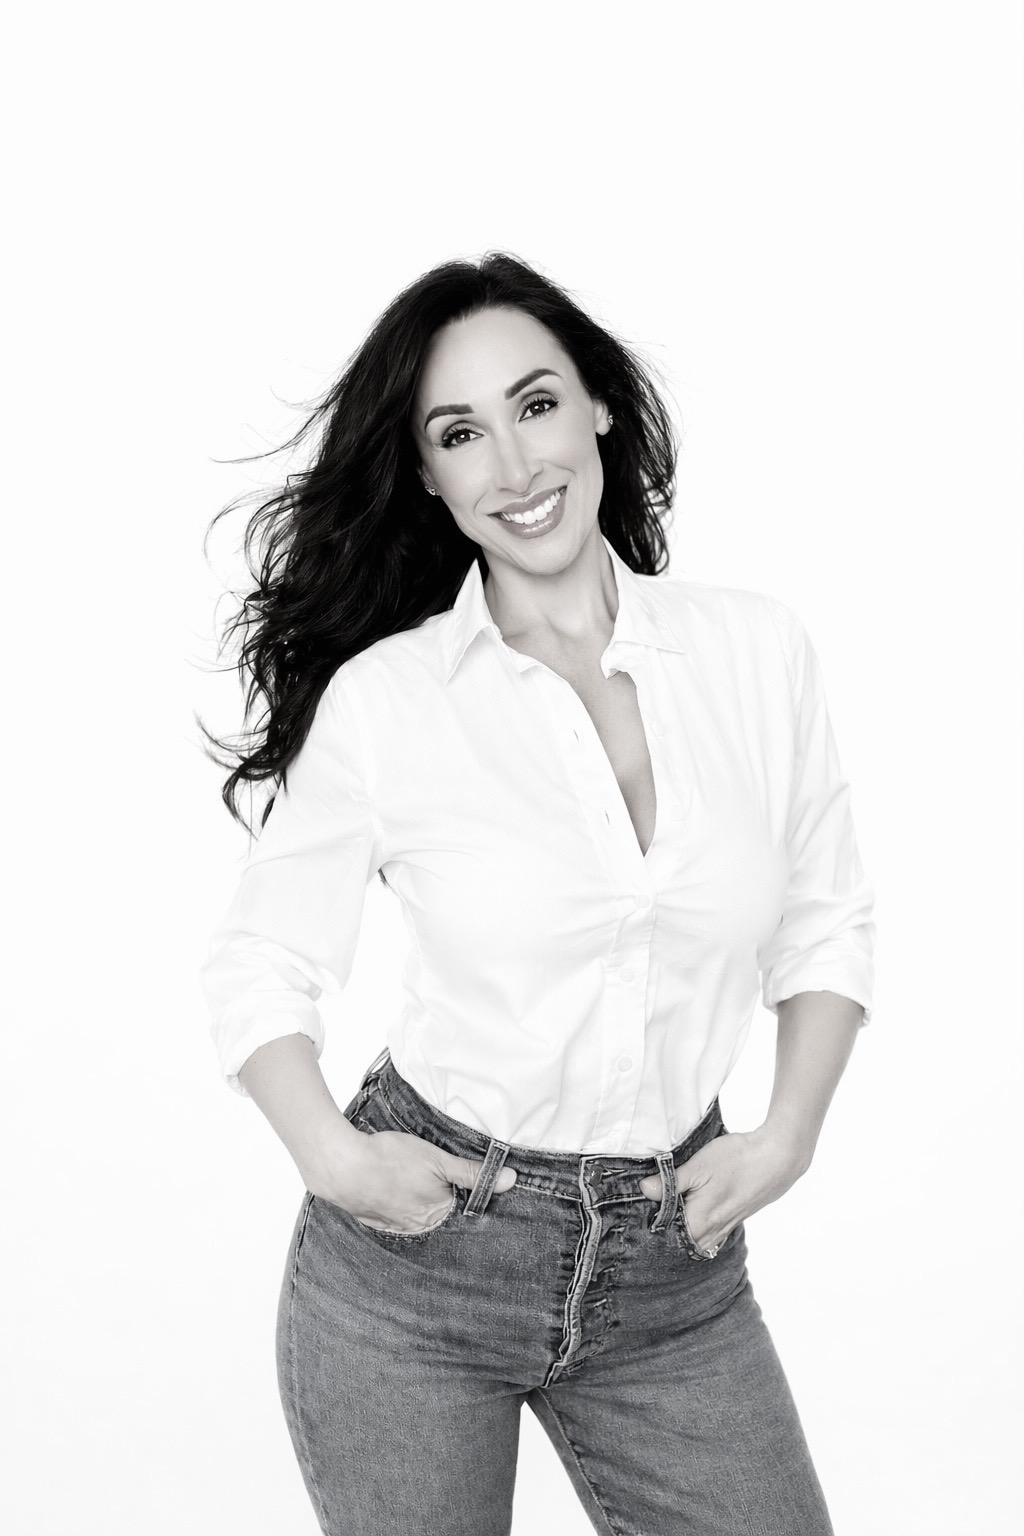
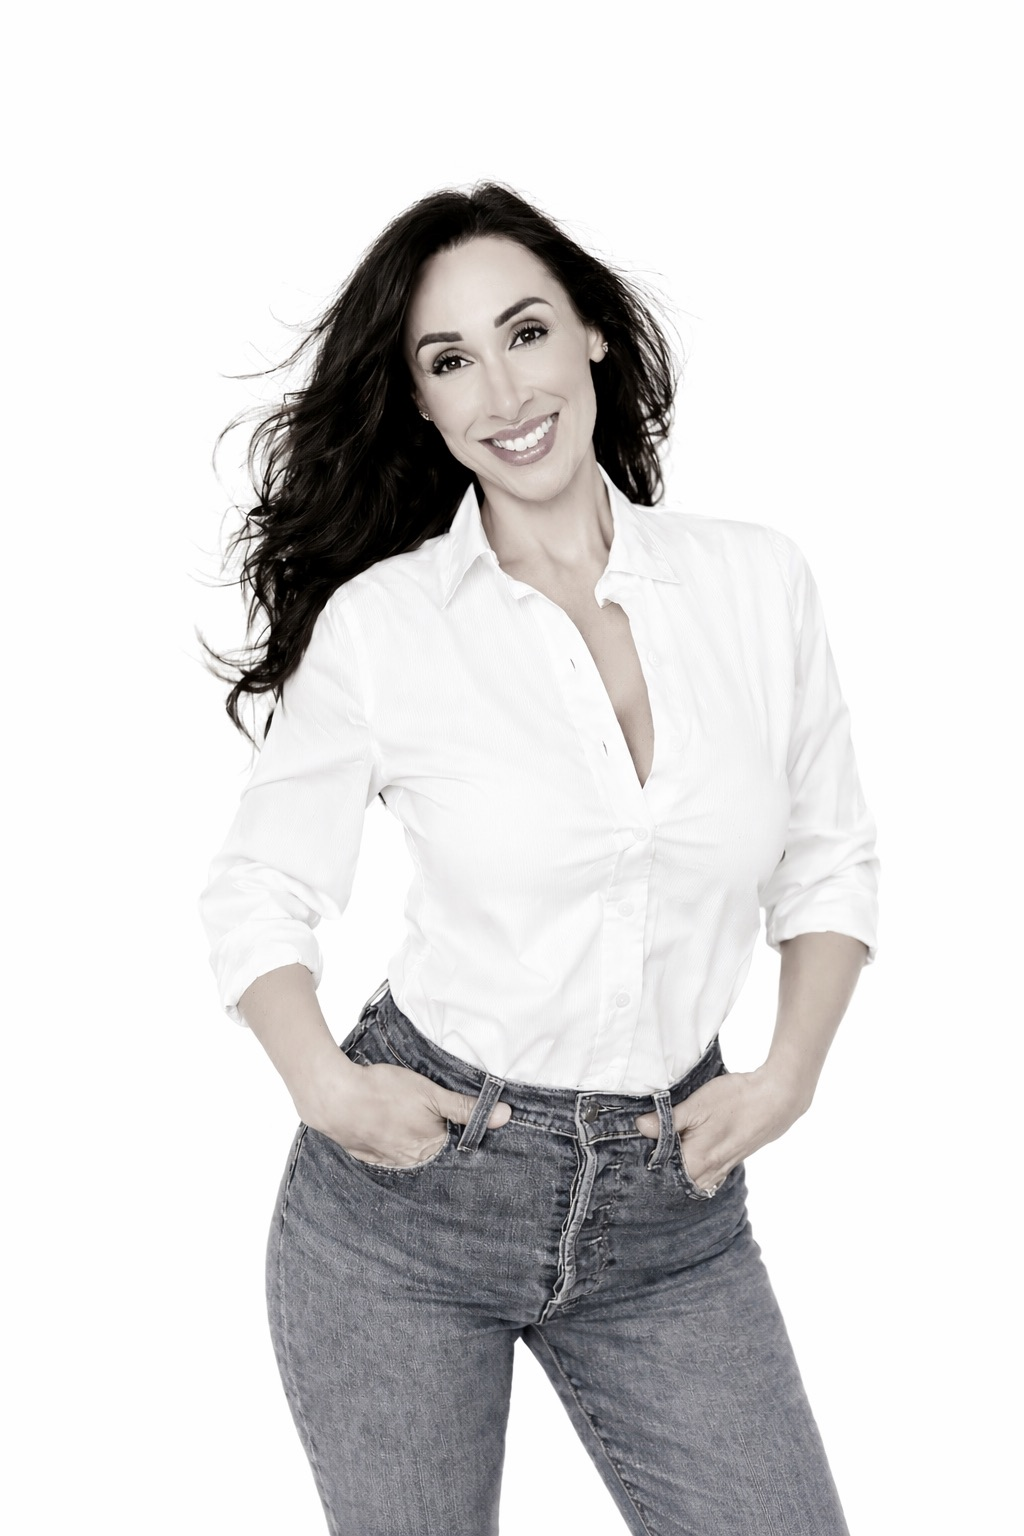
updated image in about section and cleaned up css

diff --git a/about.css b/about.css
@@ -1,24 +1,24 @@
-/*  ABOUT PAGE = about.html  */
+/* ABOUT PAGE = about.html */
 
-html, body {
+html,
+body {
   height: 100%;
 }
 
 body {
   margin: 0;
-  background-color: white; 
-  font-family: Arial, Helvetica, sans-serif;
   min-height: 100vh;
-
   display: flex;
   flex-direction: column;
+  background-color: #fff;
+  font-family: Arial, Helvetica, sans-serif;
 }
 
 main {
   flex: 1;
 }
 
-/* ====== Header (dark area) ====== */
+/* ===== Header ===== */
 .site-header {
   background-color: #0a0600;
   display: flex;
@@ -30,11 +30,10 @@ main {
 
 .site-name {
   text-decoration: none;
-  color: white;
+  color: #fff;
   font-size: 25px;
 }
 
-/* ====== Nav ====== */
 .nav-menu {
   display: flex;
   gap: 28px;
@@ -45,7 +44,7 @@ main {
 
 .nav-menu a {
   text-decoration: none;
-  color: white;
+  color: #fff;
   font-size: 12px;
 }
 
@@ -55,106 +54,63 @@ main {
 
 .nav-cta {
   padding: 10px 18px;
-  border-radius: 999px;          
-  border: 1px solid white;      
-  background-color: #0a0600;    
-  color: white;
+  border-radius: 999px;
+  border: 1px solid #fff;
+  background-color: #0a0600;
+  color: #fff;
   font-size: 11px;
   letter-spacing: 2px;
   text-decoration: none;
-
-  transition: background-color 0.2s ease,
-              color 0.2s ease,
-              border-color 0.2s ease;
+  transition: background-color 0.2s ease, color 0.2s ease, border-color 0.2s ease;
 }
 
 .nav-cta:hover {
-  background-color: white;
-  color: #000000;
-  border-color: white;
+  background-color: #fff;
+  color: #000;
+  border-color: #fff;
 }
 
-/* About page image */
-.about-inline {
-  display: flex;
-  flex-direction: row-reverse;
-  align-items: center;
-  gap: 48px;
-  max-width: 1000px;
-  margin: 0 auto;
-}
-
-.about-img {
-  width: 320px;
-  max-width: 40%;
-  height: auto;
-  flex-shrink: 0;
-}
-
-.about-text {
-  flex: 1;
-  font-size: 1.05rem;
-  line-height: 1.7;
-}
-
-@media (max-width: 768px) {
-  .about-inline {
-    flex-direction: column;
-    text-align: center;
-  }
-
-  .about-img {
-    max-width: 70%;
-  }
-}
-
-/* ====== White content area ====== */
+/* ===== Content ===== */
 .content {
   padding: 60px 20px;
 }
 
-/* About me card */
+.about-inline {
+  display: flex;
+  flex-direction: row-reverse;
+  align-items: center;
+  gap: 40px;
+  max-width: 1300px;
+  margin: 0 auto;
+}
+
+.about-img {
+  width: min(50%, 520px);
+  height: auto;
+  flex-shrink: 0;
+  transform: none;
+}
+
 .about-text {
-  max-width: 1100px;
+  flex: 1;
+  max-width: 780px; /* wider text area */
   margin: 0 auto;
   text-align: center;
-  padding: 30px 40px 32px;
-  border-radius: 60px;
+  padding: 30px 20px 32px;
 }
 
 .about-text p {
   margin: 0;
   line-height: 1.6;
-  font-family: 'Times', sans-serif;
+  font-family: "Times New Roman", Times, serif;
   font-size: 1rem;
 }
 
-/* container to center the button */
-.bottom-cta {
-  display: flex;
-  justify-content: center;
-  margin-top: 1px;
+.about-text p + p {
+  margin-top: 14px;
 }
 
-/* button itself */
-.about-cta {
-  padding: 14px 28px;
-  border-radius: 999px;
-  border: 2px solid #0a0600;
-  background-color: white;
-  color: #0a0600;
-  text-decoration: none;
-  font-size: 12px;
-  letter-spacing: 2px;
-  transition: background-color 0.25s ease, color 0.25s ease;
-}
-
-/* hover: invert */
-.about-cta:hover {
-  background-color: #0a0600;
-  color: white;
-}
-
+/* ===== Footer ===== */
 .site-footer {
   background-color: #0a0600;
   height: 80px;
@@ -174,9 +130,7 @@ main {
   width: 22px;
   height: 22px;
   opacity: 0.85;
-  transition: opacity 0.2s ease,
-              transform 0.2s ease,
-              filter 0.2s ease;
+  transition: opacity 0.2s ease, transform 0.2s ease, filter 0.2s ease;
 }
 
 .site-footer img:hover {
@@ -185,7 +139,7 @@ main {
   transform: scale(1.06);
 }
 
-/* ====== Optional: nicer behavior on small screens ====== */
+/* ===== Mobile ===== */
 @media (max-width: 768px) {
   .site-header {
     padding: 20px 18px;
@@ -196,11 +150,19 @@ main {
     gap: 16px;
   }
 
-  .hero {
-    height: 30vh;
+  .about-inline {
+    flex-direction: column;
+    text-align: center;
+    gap: 48px;
   }
 
-  .hero-img {
-    max-width: 70%;
+  .about-img {
+    width: min(85%, 420px);
+    transform: none;
+  }
+
+  .about-text {
+    max-width: 100%;
+    padding: 20px 12px 24px;
   }
 }
